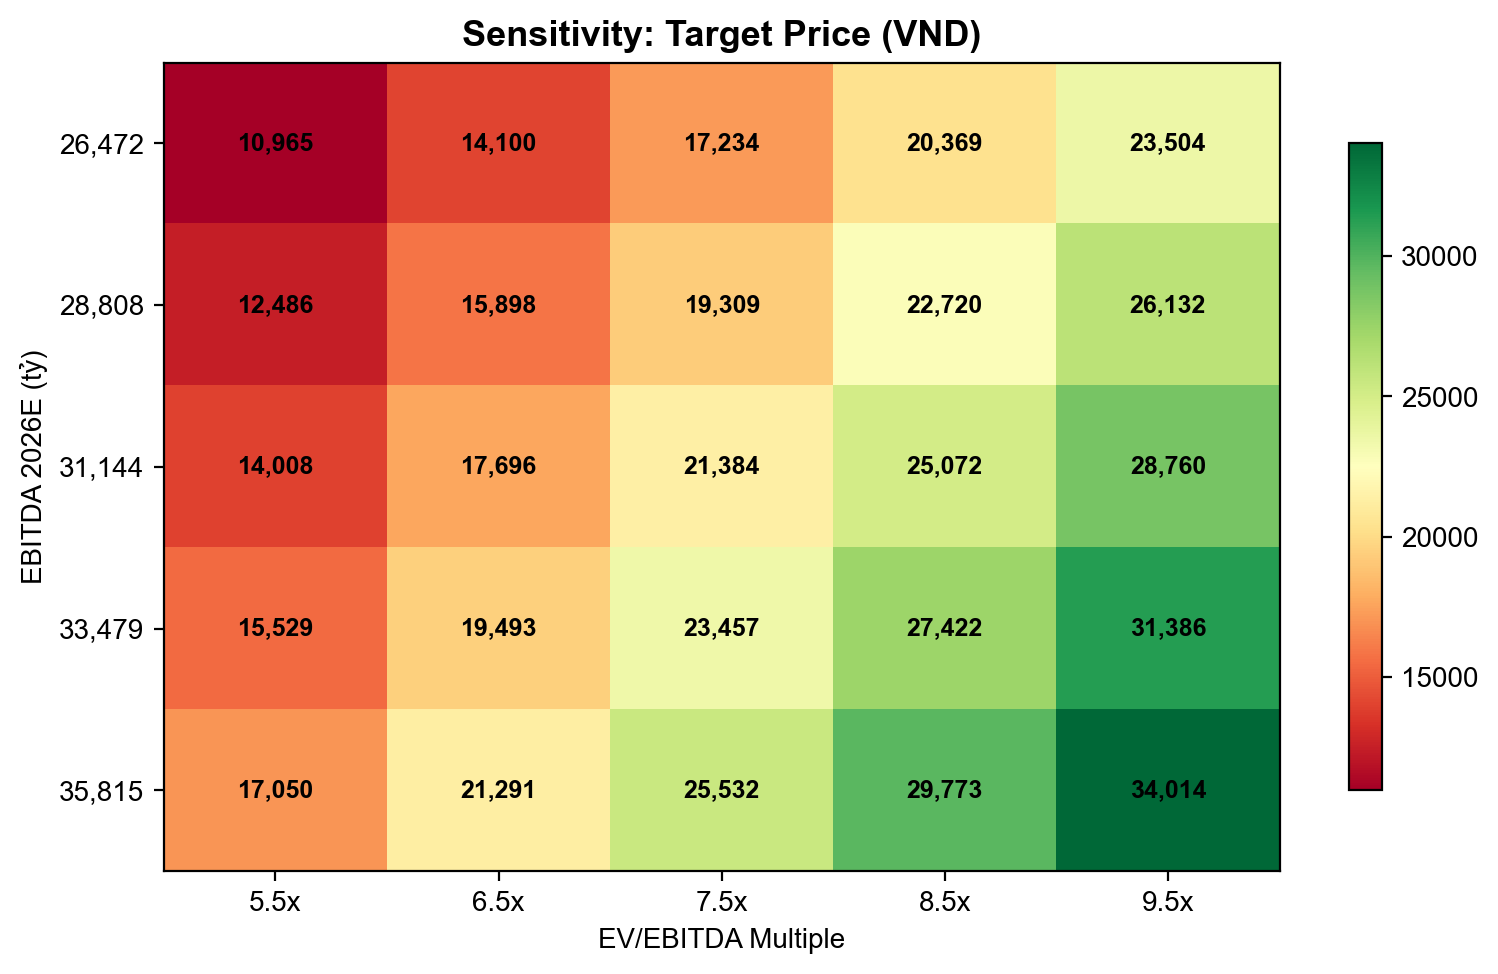
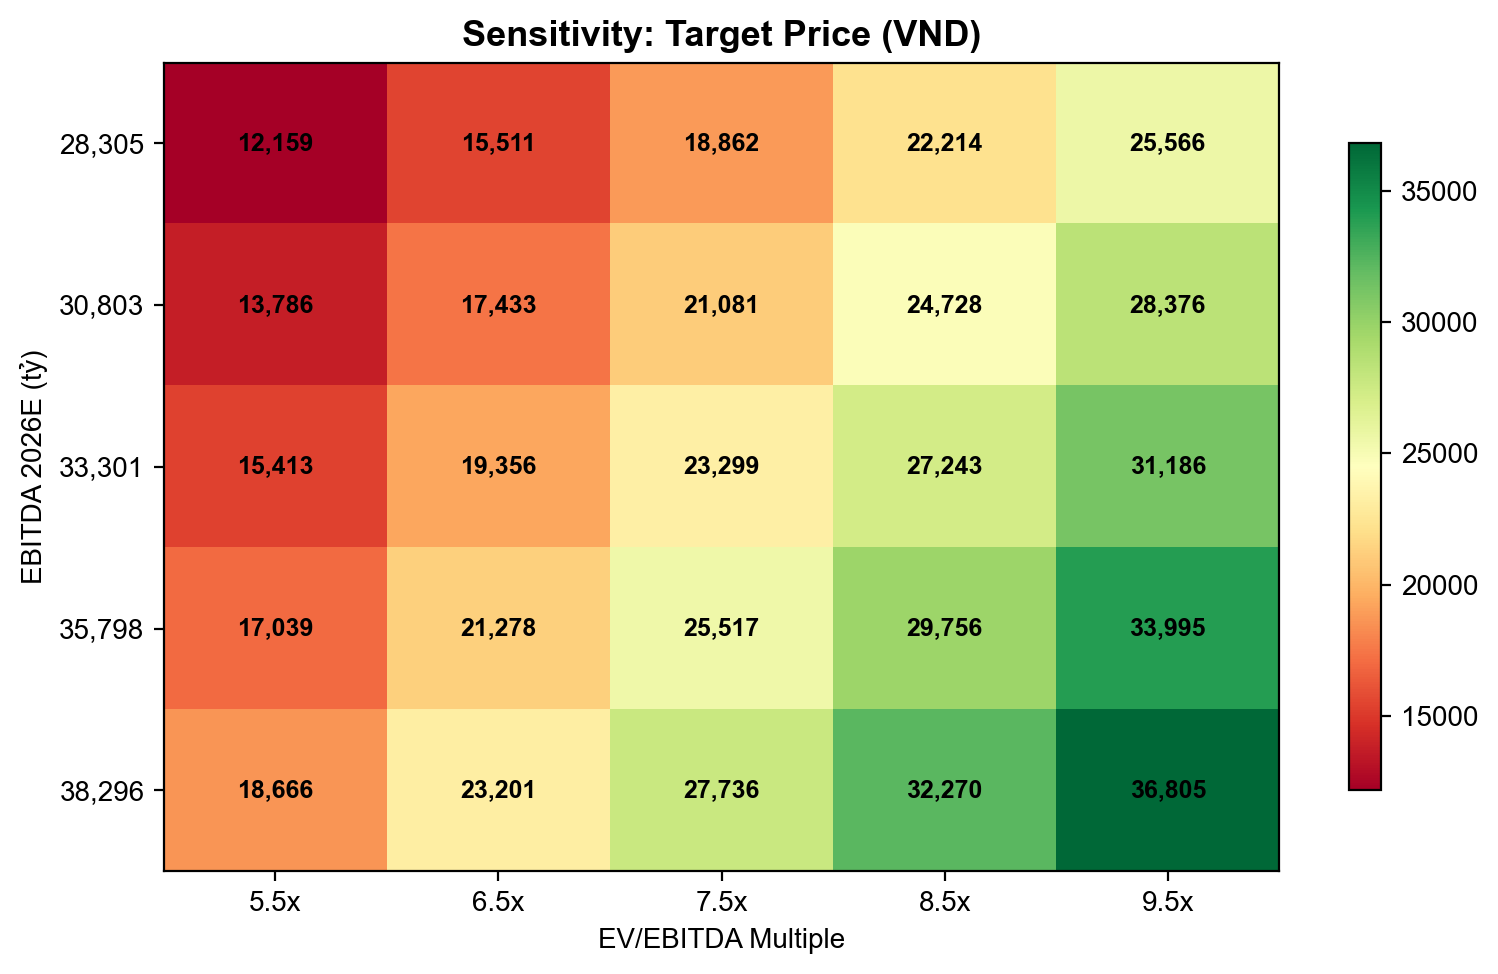
Fix D&A forecast used in EV/EBITDA valuation - was a stale hardcoded placeholder
da_fc (used to compute EBITDA = EBIT + D&A for the EV/EBITDA valuation component) was hardcoded
to [7000, 8000, 9000], disconnected from the live rollforward formula (D&A(t-1) * (1 + revenue
growth)) already used in 02_Assumptions!row9 of the Excel sheet. Found this by directly comparing
cell values the user read from their open Excel/Google Sheets file against the Python-computed
figures: Debt/Cash/Net Debt matched exactly, but EBITDA (and therefore EV/EBITDA target price)
did not - traced to this stale D&A constant. Now computed with the same rollforward logic and
seeded from the same historical actual (da_hist[-1]), matching Excel's own formula.

Note: absolute revenue/EBITDA figures will still vary run-to-run since the underlying revenue
forecast depends on live production-news fetches at that moment - this is expected model
behavior, not a bug, as long as Excel/PDF/JSON agree within a single run.

diff --git a/build_hpg_model.py b/build_hpg_model.py
@@ -1064,7 +1064,15 @@ revenue_prev_fc = [revenue_hist[-1]] + revenue_fc[:-1]
 revenue_growth_fc = [round((revenue_fc[i]/revenue_prev_fc[i]-1)*100, 1) for i in range(3)]
 ebit_margin_fc = [round(ebit_fc[i]/revenue_fc[i]*100, 1) for i in range(3)]
 
-da_fc      = [7000,  8000,   9000]
+# D&A dự phóng = D&A năm trước x (1 + Tăng trưởng DT năm đó) — ĐÚNG công thức sống ghi vào
+# 02_Assumptions!row9 (xem build_excel()), neo gốc da_hist[-1] (2025A thật). Trước đây là số gõ tay
+# cứng [7000,8000,9000] không đồng bộ khi Doanh thu/Tăng trưởng DT dự phóng thay đổi — khiến EBITDA
+# (EBIT+D&A) dùng cho định giá EV/EBITDA lệch xa so với Excel (vd 27.598 vs Excel thật 32.545 tỷ).
+da_fc = []
+_da_prev_fc = da_hist[-1]
+for _i in range(3):
+    _da_prev_fc = round(_da_prev_fc * (1 + revenue_growth_fc[_i] / 100))
+    da_fc.append(_da_prev_fc)
 capex_fc   = [15000, 18000,  20000]
 
 # Tồn kho & Phải thu dự phóng (tỷ VND) — nguồn duy nhất cho 05_Balance_Sheet, 14_Steel_Analysis